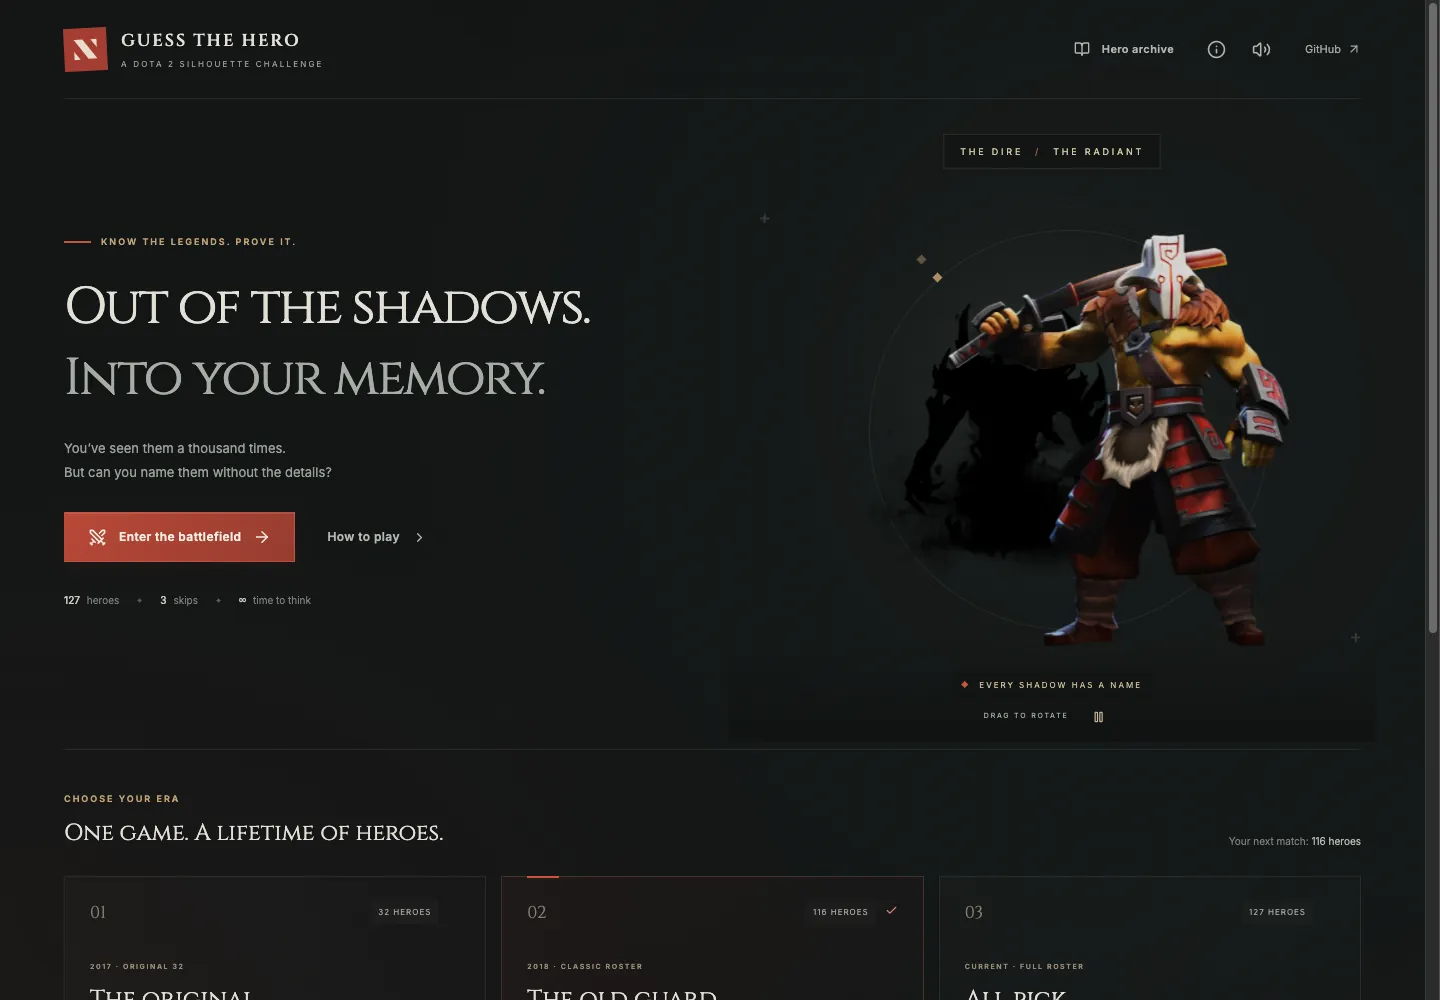
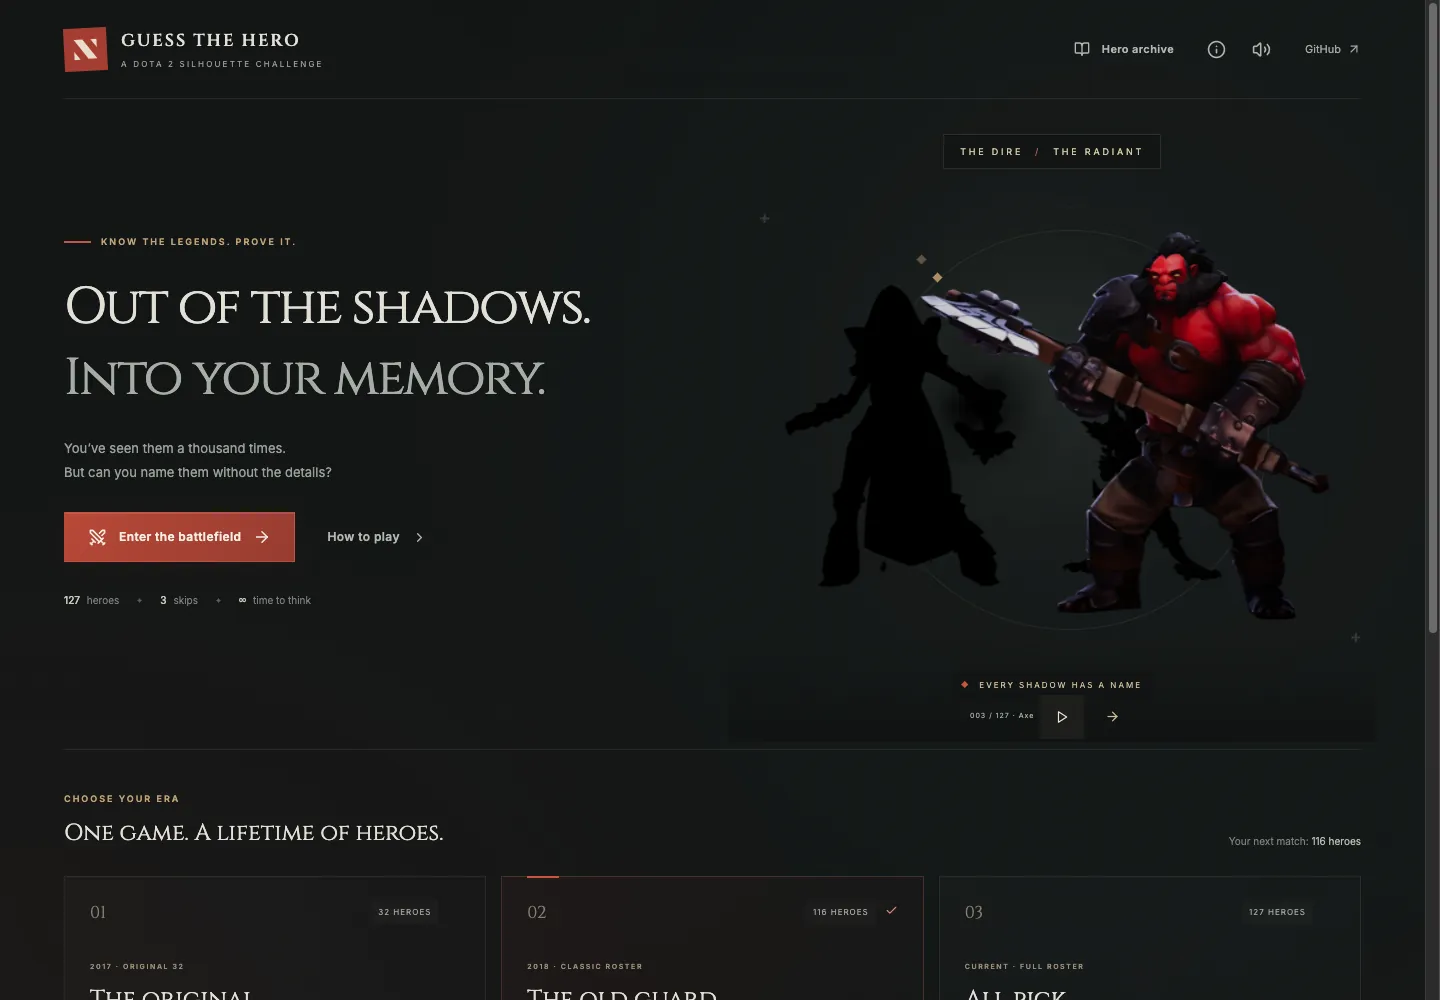
Cycle all heroes with still holds and fast camera-controlled swaps

Changed region(s): [[0.5312, 0.217, 0.9062, 0.589], [0.7188, 0.558, 0.8125, 0.651], [0.8438, 0.589, 0.875, 0.62]]

diff --git a/web/src/components/OrbitScene.jsx b/web/src/components/OrbitScene.jsx
@@ -1,11 +1,20 @@
-import { Suspense } from 'react';
+import { Suspense, useCallback, useEffect, useRef, useState } from 'react';
 import { Canvas } from '@react-three/fiber';
-import { Billboard, OrbitControls, PerspectiveCamera, useTexture } from '@react-three/drei';
+import { Billboard, CameraControls, PerspectiveCamera, useTexture } from '@react-three/drei';
 import { SRGBColorSpace } from 'three';
+import { HERO_HOLD_MS, HERO_SWAP_SMOOTH_TIME, HERO_SLOT_ANGLE, initialCarousel, nextCarousel } from '../carousel.js';
 
-function HeroBillboard({ image, position }) {
-  const texture = useTexture(image);
+function HeroBillboard({ hero, position, onReady, onRetired }) {
+  const texture = useTexture(hero.image);
   texture.colorSpace = SRGBColorSpace;
+  useEffect(() => {
+    onReady(hero.image);
+    return () => {
+      onRetired(hero.image);
+      texture.dispose();
+      useTexture.clear(hero.image);
+    };
+  }, [hero.image, texture, onReady, onRetired]);
   return <Billboard position={position} follow>
     <mesh>
       <planeGeometry args={[4.1, 4.1]} />
@@ -14,37 +23,106 @@ function HeroBillboard({ image, position }) {
   </Billboard>;
 }
 
-export default function OrbitScene({ images, running, onUnavailable }) {
-  return <Canvas
-    dpr={[1, 1.5]}
-    frameloop={running ? 'always' : 'demand'}
-    gl={{ antialias: true, alpha: true, preserveDrawingBuffer: true, powerPreference: 'low-power' }}
-    fallback={<span>3D preview needs WebGL. The game still works without it.</span>}
-    onCreated={({ gl }) => gl.domElement.addEventListener('webglcontextlost', onUnavailable, { once: true })}
-  >
-    <PerspectiveCamera makeDefault position={[0, 0, 8]} fov={40}>
-      {/* Camera-mounted light makes the near hero bright and the distant one a shadow.
-          Three.js handles light falloff; there is no custom shader or animation engine. */}
-      <pointLight position={[0, 1.5, 0]} intensity={180} distance={9.5} decay={2} />
-    </PerspectiveCamera>
-    <ambientLight intensity={0.004} />
-    <Suspense fallback={null}>
-      <HeroBillboard image={images[0]} position={[0.65, 0, 1.65]} />
-      <HeroBillboard image={images[1]} position={[-0.65, 0, -1.65]} />
-    </Suspense>
-    <OrbitControls
+function HeroCards({ roster, initialIndex, running, nextRequest, onChange, onMoving }) {
+  const controls = useRef(null);
+  const ready = useRef(new Set());
+  const moving = useRef(false);
+  const mounted = useRef(false);
+  const [frame, setFrame] = useState(() => initialCarousel(roster, initialIndex));
+  const current = useRef(frame);
+  current.current = frame;
+  const onReady = useCallback((image) => ready.current.add(image), []);
+  const onRetired = useCallback((image) => ready.current.delete(image), []);
+  const lastRequest = useRef(nextRequest);
+  const attachControls = useCallback((instance) => {
+    controls.current = instance;
+    instance?.rotateTo(-current.current.step * HERO_SLOT_ANGLE, Math.PI / 2, false);
+  }, []);
+
+  useEffect(() => {
+    mounted.current = true;
+    return () => { mounted.current = false; onMoving(false); };
+  }, [onMoving]);
+
+  const advance = useCallback(async () => {
+    if (!controls.current || moving.current) return false;
+    const updated = nextCarousel(current.current, roster);
+    const next = updated.slots[updated.step % 3];
+    if (!ready.current.has(next.image)) return false;
+    moving.current = true;
+    onMoving(true);
+    const azimuth = -updated.step * HERO_SLOT_ANGLE;
+    // camera-controls owns the tween. No requestAnimationFrame/useFrame engine.
+    await controls.current.rotateTo(azimuth, Math.PI / 2, true);
+    if (!mounted.current) return false;
+    // Snap the imperceptible damping tail so each picture is genuinely still.
+    controls.current.rotateTo(azimuth, Math.PI / 2, false);
+    current.current = updated;
+    setFrame(updated);
+    onChange(updated.step % roster.length);
+    moving.current = false;
+    onMoving(false);
+    return true;
+  }, [roster, onChange, onMoving]);
+
+  useEffect(() => {
+    if (!running) return;
+    let cancelled = false;
+    let timer;
+    const swap = async () => {
+      if (cancelled) return;
+      const advanced = await advance();
+      // Slow networks get another chance; never rotate to an unloaded picture.
+      if (!advanced && !cancelled) timer = setTimeout(swap, 250);
+    };
+    timer = setTimeout(swap, HERO_HOLD_MS);
+    return () => { cancelled = true; clearTimeout(timer); };
+  }, [running, frame.step, advance]);
+
+  useEffect(() => {
+    if (lastRequest.current === nextRequest) return;
+    lastRequest.current = nextRequest;
+    void advance();
+  }, [nextRequest, advance]);
+
+  return <>
+    {Object.keys(frame.slots).map((slot) => {
+      const angle = 0.32 - Number(slot) * HERO_SLOT_ANGLE;
+      const hero = frame.slots[slot];
+      return <Suspense key={slot} fallback={null}>
+        <HeroBillboard key={hero.id} hero={hero} position={[Math.sin(angle) * 1.78, 0, Math.cos(angle) * 1.78]} onReady={onReady} onRetired={onRetired} />
+      </Suspense>;
+    })}
+    <CameraControls
+      ref={attachControls}
       makeDefault
-      autoRotate={running}
-      autoRotateSpeed={2.4}
-      enableDamping
-      dampingFactor={0.08}
-      enableZoom={false}
-      enablePan={false}
-      enableRotate={running}
+      smoothTime={HERO_SWAP_SMOOTH_TIME}
+      restThreshold={0.015}
       minPolarAngle={Math.PI / 2}
       maxPolarAngle={Math.PI / 2}
-      target={[0, 0, 0]}
+      mouseButtons={{ left: 0, middle: 0, right: 0, wheel: 0 }}
+      touches={{ one: 0, two: 0, three: 0 }}
     />
-  </Canvas>;
+  </>;
 }
 
+export default function OrbitScene({ roster, initialIndex, running, nextRequest, onChange, onMoving, onUnavailable }) {
+  const startAngle = useRef(-initialIndex * HERO_SLOT_ANGLE).current;
+  return <Canvas
+    dpr={[1, 1.5]}
+    frameloop="demand"
+    gl={{ antialias: true, alpha: true, preserveDrawingBuffer: true, powerPreference: 'low-power' }}
+    fallback={<span>3D preview needs WebGL. The game still works without it.</span>}
+    onCreated={({ gl }) => gl.domElement.addEventListener('webglcontextlost', () => {
+      // R3F deliberately loses its context when reduced motion unmounts Canvas.
+      // Only an unexpected loss on a still-mounted canvas is a device failure.
+      if (gl.domElement.isConnected) onUnavailable();
+    }, { once: true })}
+  >
+    <PerspectiveCamera makeDefault position={[Math.sin(startAngle) * 8, 0, Math.cos(startAngle) * 8]} fov={40}>
+      <pointLight position={[0, 1.5, 0]} intensity={180} distance={8.3} decay={2} />
+    </PerspectiveCamera>
+    <ambientLight intensity={0.004} />
+    <HeroCards roster={roster} initialIndex={initialIndex} running={running} nextRequest={nextRequest} onChange={onChange} onMoving={onMoving} />
+  </Canvas>;
+}

diff --git a/web/src/components/HeroOrbit.jsx b/web/src/components/HeroOrbit.jsx
@@ -1,5 +1,5 @@
 import { Component, Suspense, lazy, useEffect, useRef, useState } from 'react';
-import { Pause, Play } from 'lucide-react';
+import { ArrowRight, Pause, Play } from 'lucide-react';
 import { Button } from './ui.jsx';
 import './hero-orbit.css';
 
@@ -21,13 +21,16 @@ class SceneFallback extends Component {
   render() { return this.state.failed ? this.props.fallback : this.props.children; }
 }
 
-export default function HeroOrbit({ images, suspended = false }) {
+export default function HeroOrbit({ roster, suspended = false }) {
   const region = useRef(null);
   const [paused, setPaused] = useState(false);
   const [reducedMotion, setReducedMotion] = useState(() => window.matchMedia(motionQuery).matches);
   const [visible, setVisible] = useState(true);
   const [tabVisible, setTabVisible] = useState(() => !document.hidden);
   const [available, setAvailable] = useState(true);
+  const [activeIndex, setActiveIndex] = useState(0);
+  const [nextRequest, setNextRequest] = useState(0);
+  const [moving, setMoving] = useState(false);
 
   useEffect(() => {
     const query = window.matchMedia(motionQuery);
@@ -45,24 +48,29 @@ export default function HeroOrbit({ images, suspended = false }) {
   }, []);
 
   const running = !paused && !reducedMotion && visible && tabVisible && !suspended && available;
-  const fallback = <StaticHeroes images={images} />;
+  const fallback = <StaticHeroes images={[roster[activeIndex].image, roster[(activeIndex + 1) % roster.length].image]} />;
+  const nextHero = () => {
+    if (reducedMotion || !available) setActiveIndex((index) => (index + 1) % roster.length);
+    else setNextRequest((request) => request + 1);
+  };
 
-  return <section ref={region} className="landing-art hero-orbit" aria-label="Rotating hero showcase">
+  return <section ref={region} className="landing-art hero-orbit" aria-label="Hero carousel">
     <div className="art-orbit orbit-one" aria-hidden="true" /><div className="art-orbit orbit-two" aria-hidden="true" />
     <div className="orbit-label">THE DIRE <span>/</span> THE RADIANT</div>
     <div className="orbit-viewport" aria-hidden="true">
       {reducedMotion || !available ? fallback : <SceneFallback fallback={fallback} onUnavailable={() => setAvailable(false)}>
-        <Suspense fallback={fallback}><OrbitScene images={images} running={running} onUnavailable={() => setAvailable(false)} /></Suspense>
+        <Suspense fallback={fallback}><OrbitScene roster={roster} initialIndex={activeIndex} running={running} nextRequest={nextRequest} onChange={setActiveIndex} onMoving={setMoving} onUnavailable={() => setAvailable(false)} /></Suspense>
       </SceneFallback>}
     </div>
     <div className="art-floor" aria-hidden="true" />
     <div className="art-caption"><span className="mini-diamond" /> EVERY SHADOW HAS A NAME</div>
     <span className="art-cross cross-top" aria-hidden="true">+</span><span className="art-cross cross-bottom" aria-hidden="true">+</span>
     <div className="orbit-controls">
-      <span>{reducedMotion ? 'REDUCED MOTION' : available ? 'DRAG TO ROTATE' : 'STATIC PREVIEW'}</span>
-      {!reducedMotion && available && <Button variant="ghost" size="icon" onClick={() => setPaused((value) => !value)} aria-label={paused ? 'Resume hero rotation' : 'Pause hero rotation'} aria-pressed={paused}>
+      <span>{String(activeIndex + 1).padStart(3, '0')} / {roster.length} · {roster[activeIndex].name}</span>
+      {!reducedMotion && available && <Button variant="ghost" size="icon" onClick={() => setPaused((value) => !value)} aria-label={paused ? 'Resume hero carousel' : 'Pause hero carousel'} aria-pressed={paused}>
         {paused ? <Play size={14} /> : <Pause size={14} />}
       </Button>}
+      <Button variant="ghost" size="icon" onClick={nextHero} disabled={available && !reducedMotion && moving} aria-label="Next showcase hero"><ArrowRight size={15} /></Button>
     </div>
   </section>;
 }

diff --git a/web/tests/carousel.test.js b/web/tests/carousel.test.js
@@ -1,0 +1,50 @@
+import test from 'node:test';
+import assert from 'node:assert/strict';
+import { readFileSync } from 'node:fs';
+import { initialCarousel, nextCarousel, HERO_HOLD_MS, HERO_SWAP_SMOOTH_TIME } from '../src/carousel.js';
+const heroes = JSON.parse(readFileSync(new URL('../src/data/heroes.json', import.meta.url)));
+const roster = Object.keys(heroes).map((id) => ({ id }));
+
+test('showcase has a real still-picture dwell and a short transition setting', () => {
+  assert.equal(HERO_HOLD_MS, 3000);
+  assert.ok(HERO_SWAP_SMOOTH_TIME < 0.1);
+});
+test('only three hero cards are needed at any time', () => {
+  assert.equal(Object.keys(initialCarousel(roster).slots).length, 3);
+});
+test('every one of the 127 heroes reaches the foreground', () => {
+  let frame = initialCarousel(roster);
+  const seen = new Set();
+  for (let i = 0; i < roster.length; i++) {
+    assert.equal(frame.slots[frame.step % 3].id, roster[i].id);
+    seen.add(frame.slots[frame.step % 3].id);
+    frame = nextCarousel(frame, roster);
+  }
+  assert.equal(seen.size, 127);
+});
+test('wraparound stays ordered even though 127 is not divisible by three', () => {
+  let frame = initialCarousel(roster);
+  for (let i = 0; i < 270; i++) {
+    assert.equal(frame.slots[frame.step % 3].id, roster[i % 127].id);
+    frame = nextCarousel(frame, roster);
+  }
+});
+test('the next foreground card is already in the preceding frame', () => {
+  const frame = initialCarousel(roster);
+  const next = nextCarousel(frame, roster);
+  assert.equal(next.slots[1], frame.slots[1]);
+  assert.equal(next.slots[2], frame.slots[2]);
+  assert.notEqual(next.slots[0], frame.slots[0]);
+});
+test('returning from reduced-motion mode keeps the selected hero', () => {
+  const frame = initialCarousel(roster, 126);
+  assert.equal(frame.slots[0].id, roster[126].id);
+  assert.equal(frame.slots[1].id, roster[0].id);
+  assert.equal(nextCarousel(frame, roster).slots[1].id, roster[0].id);
+});
+test('advancing does not mutate prior carousel state', () => {
+  const frame = initialCarousel(roster);
+  nextCarousel(frame, roster);
+  assert.equal(frame.step, 0);
+  assert.equal(frame.slots[0].id, roster[0].id);
+});

diff --git a/web/src/components/hero-orbit.css b/web/src/components/hero-orbit.css
@@ -1,14 +1,14 @@
 .hero-orbit { isolation: isolate; }
 .hero-orbit .orbit-viewport { position: absolute; inset: 68px -12px 56px; z-index: 1; }
-.hero-orbit .orbit-viewport canvas { display: block; touch-action: pan-y; cursor: grab; }
-.hero-orbit .orbit-viewport canvas:active { cursor: grabbing; }
+.hero-orbit .orbit-viewport canvas { display: block; touch-action: pan-y; cursor: default; }
 .hero-orbit .orbit-label { position: absolute; top: 27px; left: 50%; transform: translateX(-50%); z-index: 5; display: flex; gap: 12px; align-items: center; padding: 10px 16px; background: #111414e8; border: 1px solid #bda67d29; font-size: 9px; letter-spacing: 2.8px; color: #d4c4a5; white-space: nowrap; pointer-events: none; }
 .hero-orbit .orbit-label span { color: #b1684f; }
 .hero-orbit .art-floor { pointer-events: none; z-index: 2; height: 100px; }
 .hero-orbit .art-caption { left: 50%; bottom: 43px; transform: translateX(-50%); z-index: 5; font-size: 8px; letter-spacing: 2px; color: #ceba96; padding: 8px 11px; background: #111414d9; pointer-events: none; }
 .hero-orbit .art-cross { z-index: 3; pointer-events: none; }
-.hero-orbit .orbit-controls { position: absolute; bottom: 3px; left: 50%; transform: translateX(-50%); z-index: 6; display: flex; align-items: center; gap: 8px; }
-.hero-orbit .orbit-controls > span { color: #a2aa9c; font-size: 7px; letter-spacing: 1.8px; white-space: nowrap; }
+.hero-orbit .orbit-controls { position: absolute; bottom: 3px; left: 50%; transform: translateX(-50%); z-index: 6; display: flex; align-items: center; justify-content: center; gap: 6px; width: calc(100% - 40px); max-width: 430px; }
+.hero-orbit .orbit-controls > span { color: #a2aa9c; font-size: 7px; letter-spacing: 1px; white-space: nowrap; max-width: calc(100% - 100px); overflow: hidden; text-overflow: ellipsis; }
+.hero-orbit .orbit-controls .btn { flex-shrink: 0; }
 .hero-orbit .orbit-controls .btn { min-width: 44px; min-height: 44px; color: #cfbc96; }
 .hero-orbit .orbit-controls .btn:hover { background: #b69d7212; }
 .hero-orbit .orbit-static { position: absolute; inset: 0; overflow: hidden; }

diff --git a/web/src/App.jsx b/web/src/App.jsx
@@ -13,6 +13,10 @@ const counts = {};
 for (const mode in MODES) counts[mode] = poolFor(heroes, mode).length;
 const storage = { getItem: (key) => localStorage.getItem(key), setItem: (key, value) => localStorage.setItem(key, value) };
 const demoIds = ['juggernaut', 'crystal_maiden', 'nevermore', 'pudge', 'kez', 'largo'];
+const showcaseRoster = [];
+const featured = { juggernaut: true, nevermore: true, axe: true, crystal_maiden: true, kez: true, largo: true };
+for (const id in featured) showcaseRoster.push({ id, name: heroes[id].name, image: asset(heroes[id].image) });
+for (const id in heroes) if (!featured[id]) showcaseRoster.push({ id, name: heroes[id].name, image: asset(heroes[id].image) });
 
 function Emblem() {
   return <svg viewBox="0 0 64 64" aria-hidden="true"><path d="M15 17h13l21 29H36L15 17Zm25 0h9v12l-9-12ZM15 35l9 12h-9V35Z" fill="currentColor" /></svg>;
@@ -143,7 +147,7 @@ export default function App() {
             <div className="hero-actions"><Button onClick={() => launch()}><Swords size={19} /> Enter the battlefield <ArrowRight size={18} /></Button><Button variant="ghost" onClick={() => setModal('rules')}>How to play <ChevronRight size={15} /></Button></div>
             <div className="landing-proof"><span><strong>127</strong> heroes</span><i /><span><strong>3</strong> skips</span><i /><span><strong>∞</strong> time to think</span></div>
           </div>
-          <HeroOrbit images={[asset(heroes.juggernaut.image), asset(heroes.nevermore.image)]} suspended={modal !== null} />
+          <HeroOrbit roster={showcaseRoster} suspended={modal !== null} />
         </section>
         <section className="mode-section" aria-label="Choose your roster">
           <div className="section-heading"><div><span className="eyebrow">CHOOSE YOUR ERA</span><h2>One game. A lifetime of heroes.</h2></div><span className="section-note">Your next match: <strong>{counts[mode]} heroes</strong></span></div>

diff --git a/web/src/carousel.js b/web/src/carousel.js
@@ -1,0 +1,18 @@
+export const HERO_HOLD_MS = 3000;
+export const HERO_SWAP_SMOOTH_TIME = 0.065;
+export const HERO_SLOT_ANGLE = (Math.PI * 2) / 3;
+
+export function initialCarousel(roster, step = 0) {
+  if (roster.length < 3) throw new Error('Hero showcase needs at least three entries');
+  const slots = {};
+  for (let offset = 0; offset < 3; offset++) slots[(step + offset) % 3] = roster[(step + offset) % roster.length];
+  return { step, slots };
+}
+
+export function nextCarousel(frame, roster) {
+  const step = frame.step + 1;
+  // Recycle only the card that has just moved behind the camera. The next
+  // foreground card is already loaded and has been visible as a shadow.
+  const retiredSlot = (step + 2) % 3;
+  return { step, slots: { ...frame.slots, [retiredSlot]: roster[(step + 2) % roster.length] } };
+}

diff --git a/web/README.md b/web/README.md
@@ -17,7 +17,7 @@ On phones/touch screens, the game uses a compact viewport-aware layout. It does 
 
 Correct answer: +10 points. Three skips per match. Wrong guesses have no penalty. Names, common aliases, spacing, case, and punctuation are normalized. A skipped hero is revealed before moving on. When skips run out, the skip control is disabled rather than unexpectedly ending the game. GG saves your score and ends the match. High scores are local to the browser, independently per roster.
 
-Audio plays only on reveal or an explicit replay. The mute preference is saved. Io, Phoenix, Marci, and Primal Beast use their actual vocalizations/whistles/roars rather than invented speech. No timers; restrained reveal motion respects reduced-motion preferences. The landing showcase uses a lazy-loaded Three.js carousel via **React Three Fiber + Drei**, not a custom animation engine. Drei's built-in OrbitControls handles automatic horizontal rotation and drag interaction; Billboard keeps the existing hero cutouts facing the camera. Near heroes brighten and far heroes become silhouettes through Three.js lighting. Pause/resume, offscreen/tab suspension, reduced-motion static art, and a WebGL-unavailable fallback keep it usable.
+Audio plays only on reveal or an explicit replay. The mute preference is saved. Io, Phoenix, Marci, and Primal Beast use their actual vocalizations/whistles/roars rather than invented speech. No timers; restrained reveal motion respects reduced-motion preferences. The landing showcase uses a lazy-loaded Three.js carousel via **React Three Fiber + Drei**, not a custom animation engine. Drei's built-in **CameraControls** handles fast clockwise transitions; Billboard keeps the existing hero cutouts facing the camera. The showcase cycles through all **127 heroes**, holding each picture still for **3 seconds**, then swapping in roughly **a quarter second** (browser measured ~262 ms). This is not continuous rotation. Near heroes brighten and far heroes become silhouettes through Three.js lighting. Pause/resume and a Next button are available. Offscreen/tab suspension, reduced-motion static art, and a WebGL-unavailable fallback keep it usable. Only three hero cards are loaded at a time; retired textures are disposed rather than retaining the full roster on the GPU.
 
 ## Development
 

diff --git a/web/ASSETS.md b/web/ASSETS.md
@@ -43,4 +43,4 @@ This does **not** claim a fully restored 2018 game client, a complete set of his
 
 ## UI dependencies
 
-React, Vite, Tailwind CSS, Radix UI, Lucide, class-variance-authority, clsx, and tailwind-merge are free/open-source dependencies with their respective licenses. The rotating landing showcase uses [Three.js](https://github.com/mrdoob/three.js), [React Three Fiber](https://github.com/pmndrs/react-three-fiber), and [Drei](https://github.com/pmndrs/drei), all MIT-licensed. Drei's built-in OrbitControls and Billboard components supply the 3D interaction; the scene reuses existing hero cutouts and adds no externally sourced models, paid assets, or custom animation engine. Button/input/dialog primitives follow the source-owned shadcn/ui pattern and are custom-styled to the Dota-inspired visual direction. Cinzel and Inter fonts are distributed under the SIL Open Font License through Fontsource. No paid component kits or shader subscriptions are used.
+React, Vite, Tailwind CSS, Radix UI, Lucide, class-variance-authority, clsx, and tailwind-merge are free/open-source dependencies with their respective licenses. The rotating landing showcase uses [Three.js](https://github.com/mrdoob/three.js), [React Three Fiber](https://github.com/pmndrs/react-three-fiber), and [Drei](https://github.com/pmndrs/drei), all MIT-licensed. Drei's built-in CameraControls (wrapping the MIT-licensed camera-controls library) and Billboard components supply the 3D interaction; the scene reuses existing hero cutouts and adds no externally sourced models, paid assets, or custom animation engine. Button/input/dialog primitives follow the source-owned shadcn/ui pattern and are custom-styled to the Dota-inspired visual direction. Cinzel and Inter fonts are distributed under the SIL Open Font License through Fontsource. No paid component kits or shader subscriptions are used.

diff --git a/web/QA.md b/web/QA.md
@@ -49,4 +49,16 @@ Checked 2026-10-09 using Node 23 locally; GitHub Actions uses Node 22. Browser c
 - axe-core checked the mobile game state; no WCAG 2 A/AA + 2.1 AA violations in the tested state. Fixed an invalid aria-label by giving skip indicators a group role.
 - These are browser-emulated keyboard conditions and unit checks, not a claim of physical iOS/Android keyboard testing. Real-device Safari/Chrome testing is still recommended.
 
+## Still-picture carousel follow-up
+
+This supersedes the earlier continuous two-hero orbit.
+
+- Full 127-hero roster now cycles through three recycled scene slots. Tests verify every hero reaches the front, including wraparound when 127 is not divisible by three.
+- Drei CameraControls performs the tween: 3-second dwell, ~262 ms measured transition, then exact angle snap to eliminate any damping tail. No perpetual auto-rotate.
+- Paused camera position movement measured zero. Next performs a single fast transition while paused; resume returns to timed steps.
+- Retired textures are disposed and evicted from the loader cache. After 20 displayed heroes, the checked scene had four GPU textures, not 20 retained hero textures.
+- Reduced-motion mode has no Canvas and supports manual instant Next. Returning to 3D preserves the selected hero; deliberate Canvas disposal is not mistaken for unexpected WebGL context loss.
+- Mobile layout and counter have no horizontal overflow in the checked 390px viewport.
+- 34 unit tests now cover gameplay, viewport behavior, and carousel sequencing.
+
 Screenshots: [landing](docs/home.webp), [battlefield](docs/battlefield.webp), [mobile](docs/mobile.webp), [compact mobile game](docs/mobile-game.webp), [keyboard-sized viewport](docs/mobile-keyboard.webp).
